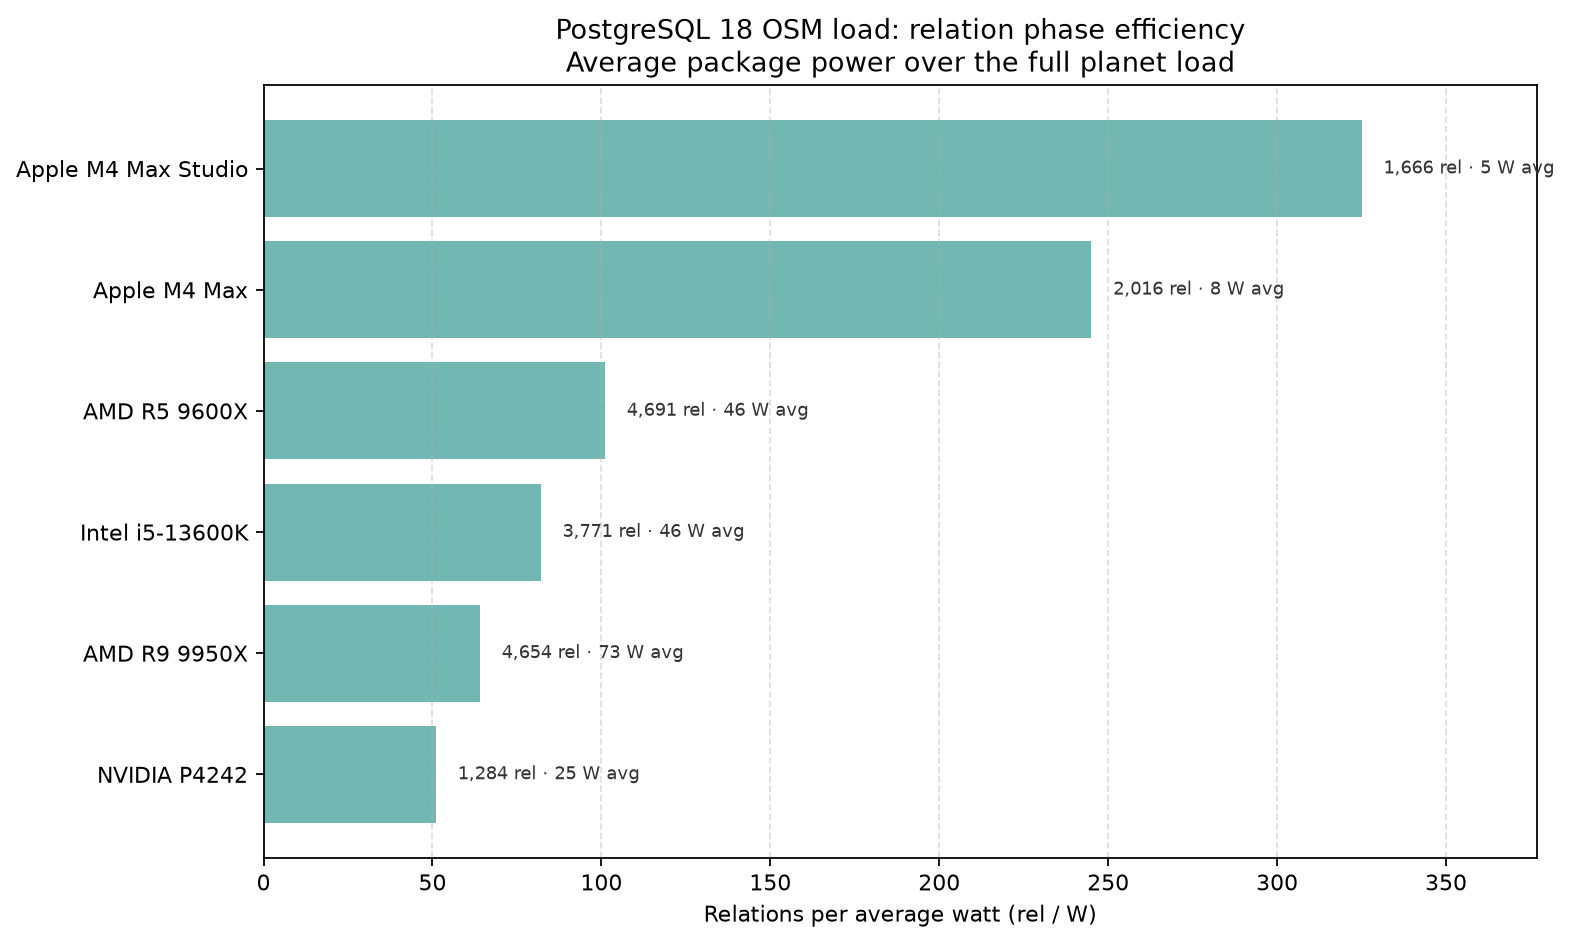
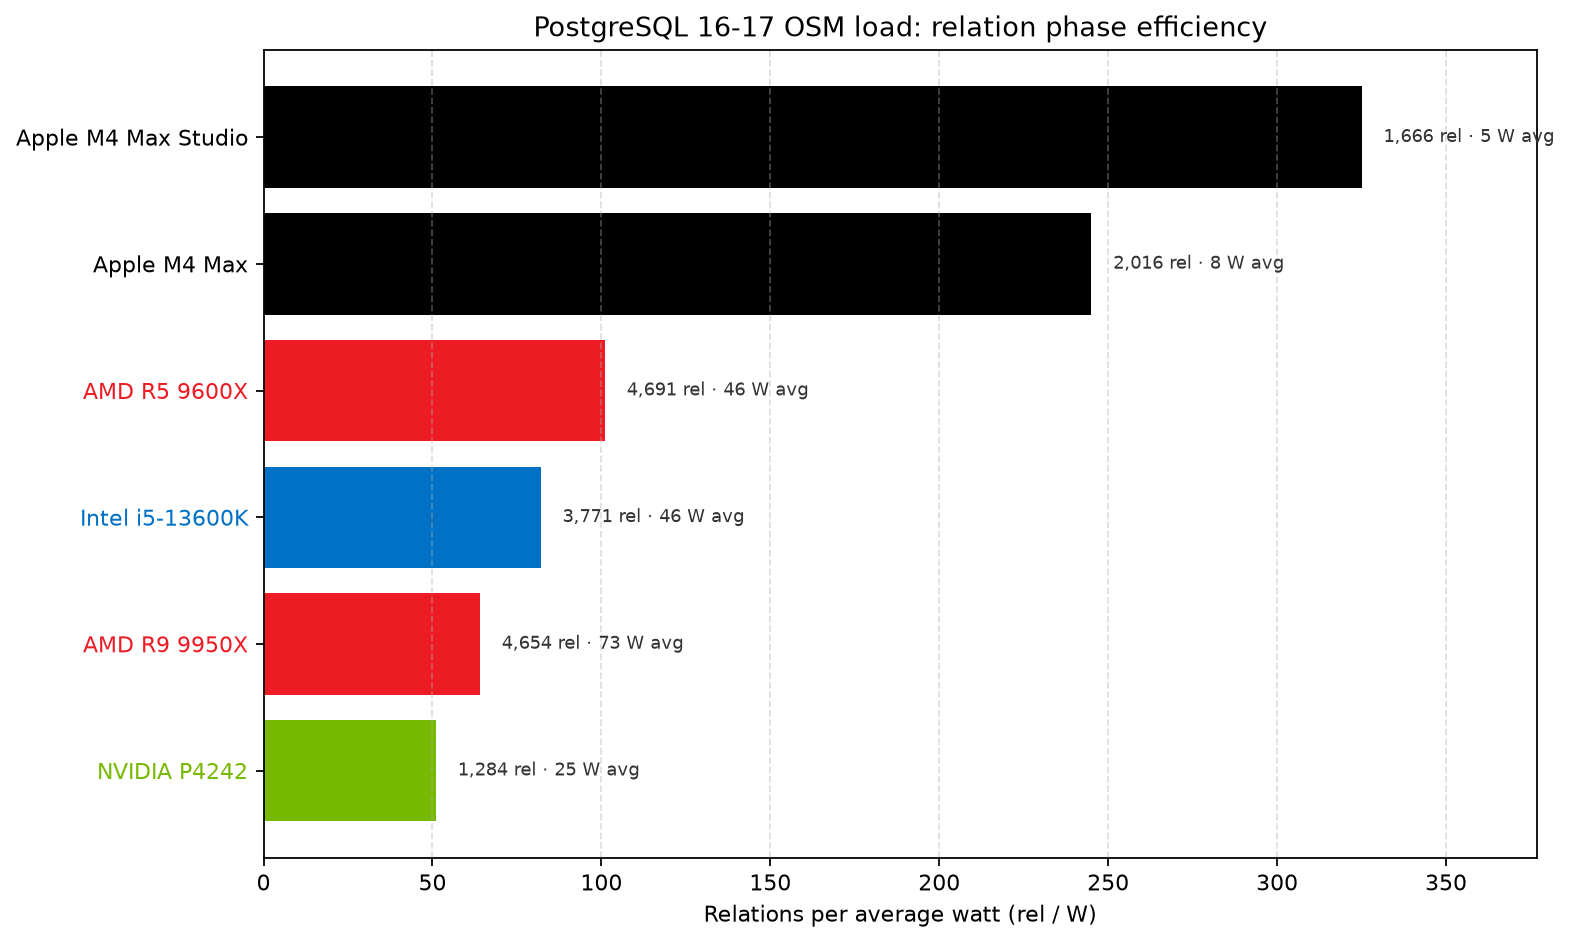
Color OSM relation bar chart by CPU vendor and simplify title.
Use cpu_c brand colors on bars and labels, and retitle to PostgreSQL 16-17 without the subtitle.

Changed region(s): [[0.0, 0.0, 0.9987, 0.8918]]

diff --git a/reports/osm-relation-power.py b/reports/osm-relation-power.py
@@ -29,8 +29,11 @@ DEFAULT_OUTPUT = REPO_ROOT / "docs/images/pg18-osm-relation-power.png"
 DEFAULT_SCATTER = REPO_ROOT / "docs/images/pg18-osm-relation-scatter.png"
 RELATION_HEADING = "## Relation power efficiency"
 
-BAR_COLOR = "#72b7b2"
 DEFAULT_POINT_COLOR = "#333333"
+
+
+def row_color(row: pd.Series) -> str:
+    return str(row.get("cpu_c", "")).strip() or DEFAULT_POINT_COLOR
 
 
 def parse_args() -> argparse.Namespace:
@@ -67,15 +70,16 @@ def plot_relation_efficiency(df: pd.DataFrame, output: Path, show: bool = False)
     plot_df = df.sort_values("rel_per_watt", ascending=True).reset_index(drop=True)
     y = range(len(plot_df))
 
+    colors = [row_color(row) for _, row in plot_df.iterrows()]
+
     fig, ax = plt.subplots(figsize=(10, 6))
-    ax.barh(list(y), plot_df["rel_per_watt"], color=BAR_COLOR)
+    ax.barh(list(y), plot_df["rel_per_watt"], color=colors)
     ax.set_yticks(list(y))
     ax.set_yticklabels(plot_df["cpu"])
+    for tick, color in zip(ax.get_yticklabels(), colors):
+        tick.set_color(color)
     ax.set_xlabel("Relations per average watt (rel / W)")
-    ax.set_title(
-        "PostgreSQL 18 OSM load: relation phase efficiency\n"
-        "Average package power over the full planet load"
-    )
+    ax.set_title("PostgreSQL 16-17 OSM load: relation phase efficiency")
     ax.grid(True, axis="x", linestyle="--", alpha=0.4)
 
     xmax = plot_df["rel_per_watt"].max()
@@ -106,7 +110,7 @@ def plot_relation_scatter(df: pd.DataFrame, output: Path, show: bool = False) ->
     fig, ax = plt.subplots(figsize=(10, 6))
 
     for _, row in df.iterrows():
-        color = str(row.get("cpu_c", "")).strip() or DEFAULT_POINT_COLOR
+        color = row_color(row)
         ax.scatter(
             row["avg_watts"],
             row["rel"],
